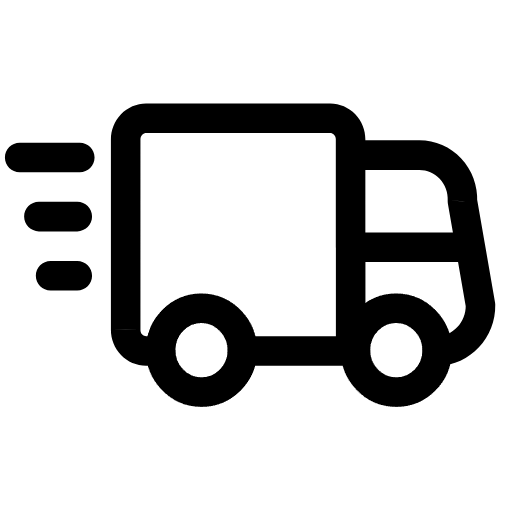
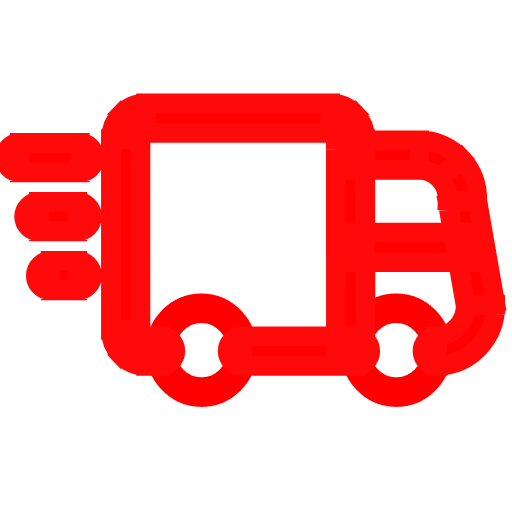
feat: Se terminó la seccion de imagenes de las empresas

diff --git a/src/components/UsService/UsService.tsx b/src/components/UsService/UsService.tsx
@@ -1,18 +1,14 @@
+import { ArrowUp, Rocket, Truck } from "lucide-react";
 import Image from "next/image";
 
 export const UsService = () => {
   return (
-    <div className="container md:px-6 mb-20">
+    <div className="container mx-auto px-4 mb-20">
       <div className="grid gap-6 md:gap-8">
-        <div className="mt-10 grid grid-cols-1 gap-6 sm:grid-cols-2 md:grid-cols-2 lg:grid-cols-3">
+        <div className="mt-10 grid grid-cols-1 sm:grid-cols-2 lg:grid-cols-3 gap-6">
           <div className="text-black bg-white relative overflow-hidden rounded-lg p-6 border border-gray-200 shadow-sm">
-            <div className="flex h-16 w-16 items-center justify-center rounded-full bg-gray-100 text-2xl font-bold">
-              <Image
-                src="/trcukImport.png"
-                alt="Truck"
-                width={42}
-                height={42}
-              />
+            <div className="flex h-16 w-16 items-center justify-center rounded-full bg-blue-100 text-2xl font-bold">
+              <Truck size={42} className="text-blue-500" />
             </div>
             <div className="mt-4 flex flex-col gap-1">
               <p className="text-base">
@@ -21,52 +17,90 @@ export const UsService = () => {
             </div>
           </div>
           <div className="text-black bg-white relative overflow-hidden rounded-lg p-6 border border-gray-200 shadow-sm">
-            <div className="flex h-16 w-16 items-center justify-center rounded-full bg-gray-100 text-2xl font-bold">
-              <Image src="/rocket.png" alt="Car" width={42} height={42} />
+            <div className="flex h-16 w-16 items-center justify-center rounded-full bg-red-100 text-2xl font-bold">
+              <Rocket size={40} className="text-red-500" />
             </div>
             <div className="mt-4 flex flex-col gap-1">
               <p className="text-base">
-                Potencia tus ventas en el canal de comercionalización de mayor
+                Potencia tus ventas en el canal de comercialización de mayor
                 crecimiento
               </p>
             </div>
           </div>
           <div className="text-black bg-white relative overflow-hidden rounded-lg p-6 border border-gray-200 shadow-sm">
-            <div className="flex h-16 w-16 items-center justify-center rounded-full bg-gray-100 text-2xl font-bold">
-              <Image src="/Increment.png" alt="Home" width={42} height={42} />
+            <div className="flex h-16 w-16 items-center justify-center rounded-full bg-green-100 text-2xl font-bold">
+              <ArrowUp size={40} className="text-green-600" />
             </div>
             <div className="mt-4 flex flex-col gap-1">
               <p className="text-base">
-                Incrementá la visibilidad de tu marca y productos
+                Incrementa la visibilidad de tu marca y productos
               </p>
             </div>
           </div>
         </div>
         <div className="text-black bg-white relative overflow-hidden rounded-lg p-6 border border-gray-200 shadow-sm w-full">
-          <div className="flex gap-4">
+          <div className="flex flex-wrap gap-4 justify-around items-center">
             <Image
               src="/mercadolibre.png"
-              alt="Mercado libre"
+              alt="Mercado Libre"
               width={100}
               height={100}
+              className="object-contain"
             />
-
             <Image
               src="/mercadopago.png"
-              alt="Mercado libre"
+              alt="Mercado Pago"
               width={100}
               height={100}
+              className="object-contain"
             />
-
             <Image
               src="/mercadoshops.png"
-              alt="Mercado libre"
+              alt="Mercado Shops"
               width={100}
               height={100}
+              className="object-contain"
+            />
+            <Image
+              src="/logo-mercadoenvios.png"
+              alt="Mercado Envíos"
+              width={100}
+              height={100}
+              className="object-contain"
+            />
+          </div>
+          <div className="flex flex-wrap gap-4 justify-around items-center mt-6">
+            <Image
+              src="/fravega (1).png"
+              alt="Frávega"
+              width={140}
+              height={130}
+              className="object-contain"
+            />
+            <Image
+              src="/megatone.png"
+              alt="Megatone"
+              width={100}
+              height={100}
+              className="object-contain"
+            />
+            <Image
+              src="/woocomerce1.png"
+              alt="WooCommerce"
+              width={150}
+              height={100}
+              className="object-contain"
+            />
+            <Image
+              src="/vtex.png"
+              alt="VTEX"
+              width={150}
+              height={100}
+              className="object-contain"
             />
             <svg
               className="ml-4"
-              width="250"
+              width="230"
               height="79"
               viewBox="0 0 379 79"
               fill="none"
@@ -82,12 +116,9 @@ export const UsService = () => {
               />
             </svg>
           </div>
-
-          <div className="mt-7 flex flex-col gap-1">
-            <p className="text-base">
-              Incrementá la visibilidad de tu marca y productos
-            </p>
-          </div>
+          <p className="text-center font-semibold text-xl mt-10">
+            Plataformas que operamos
+          </p>
         </div>
       </div>
     </div>
